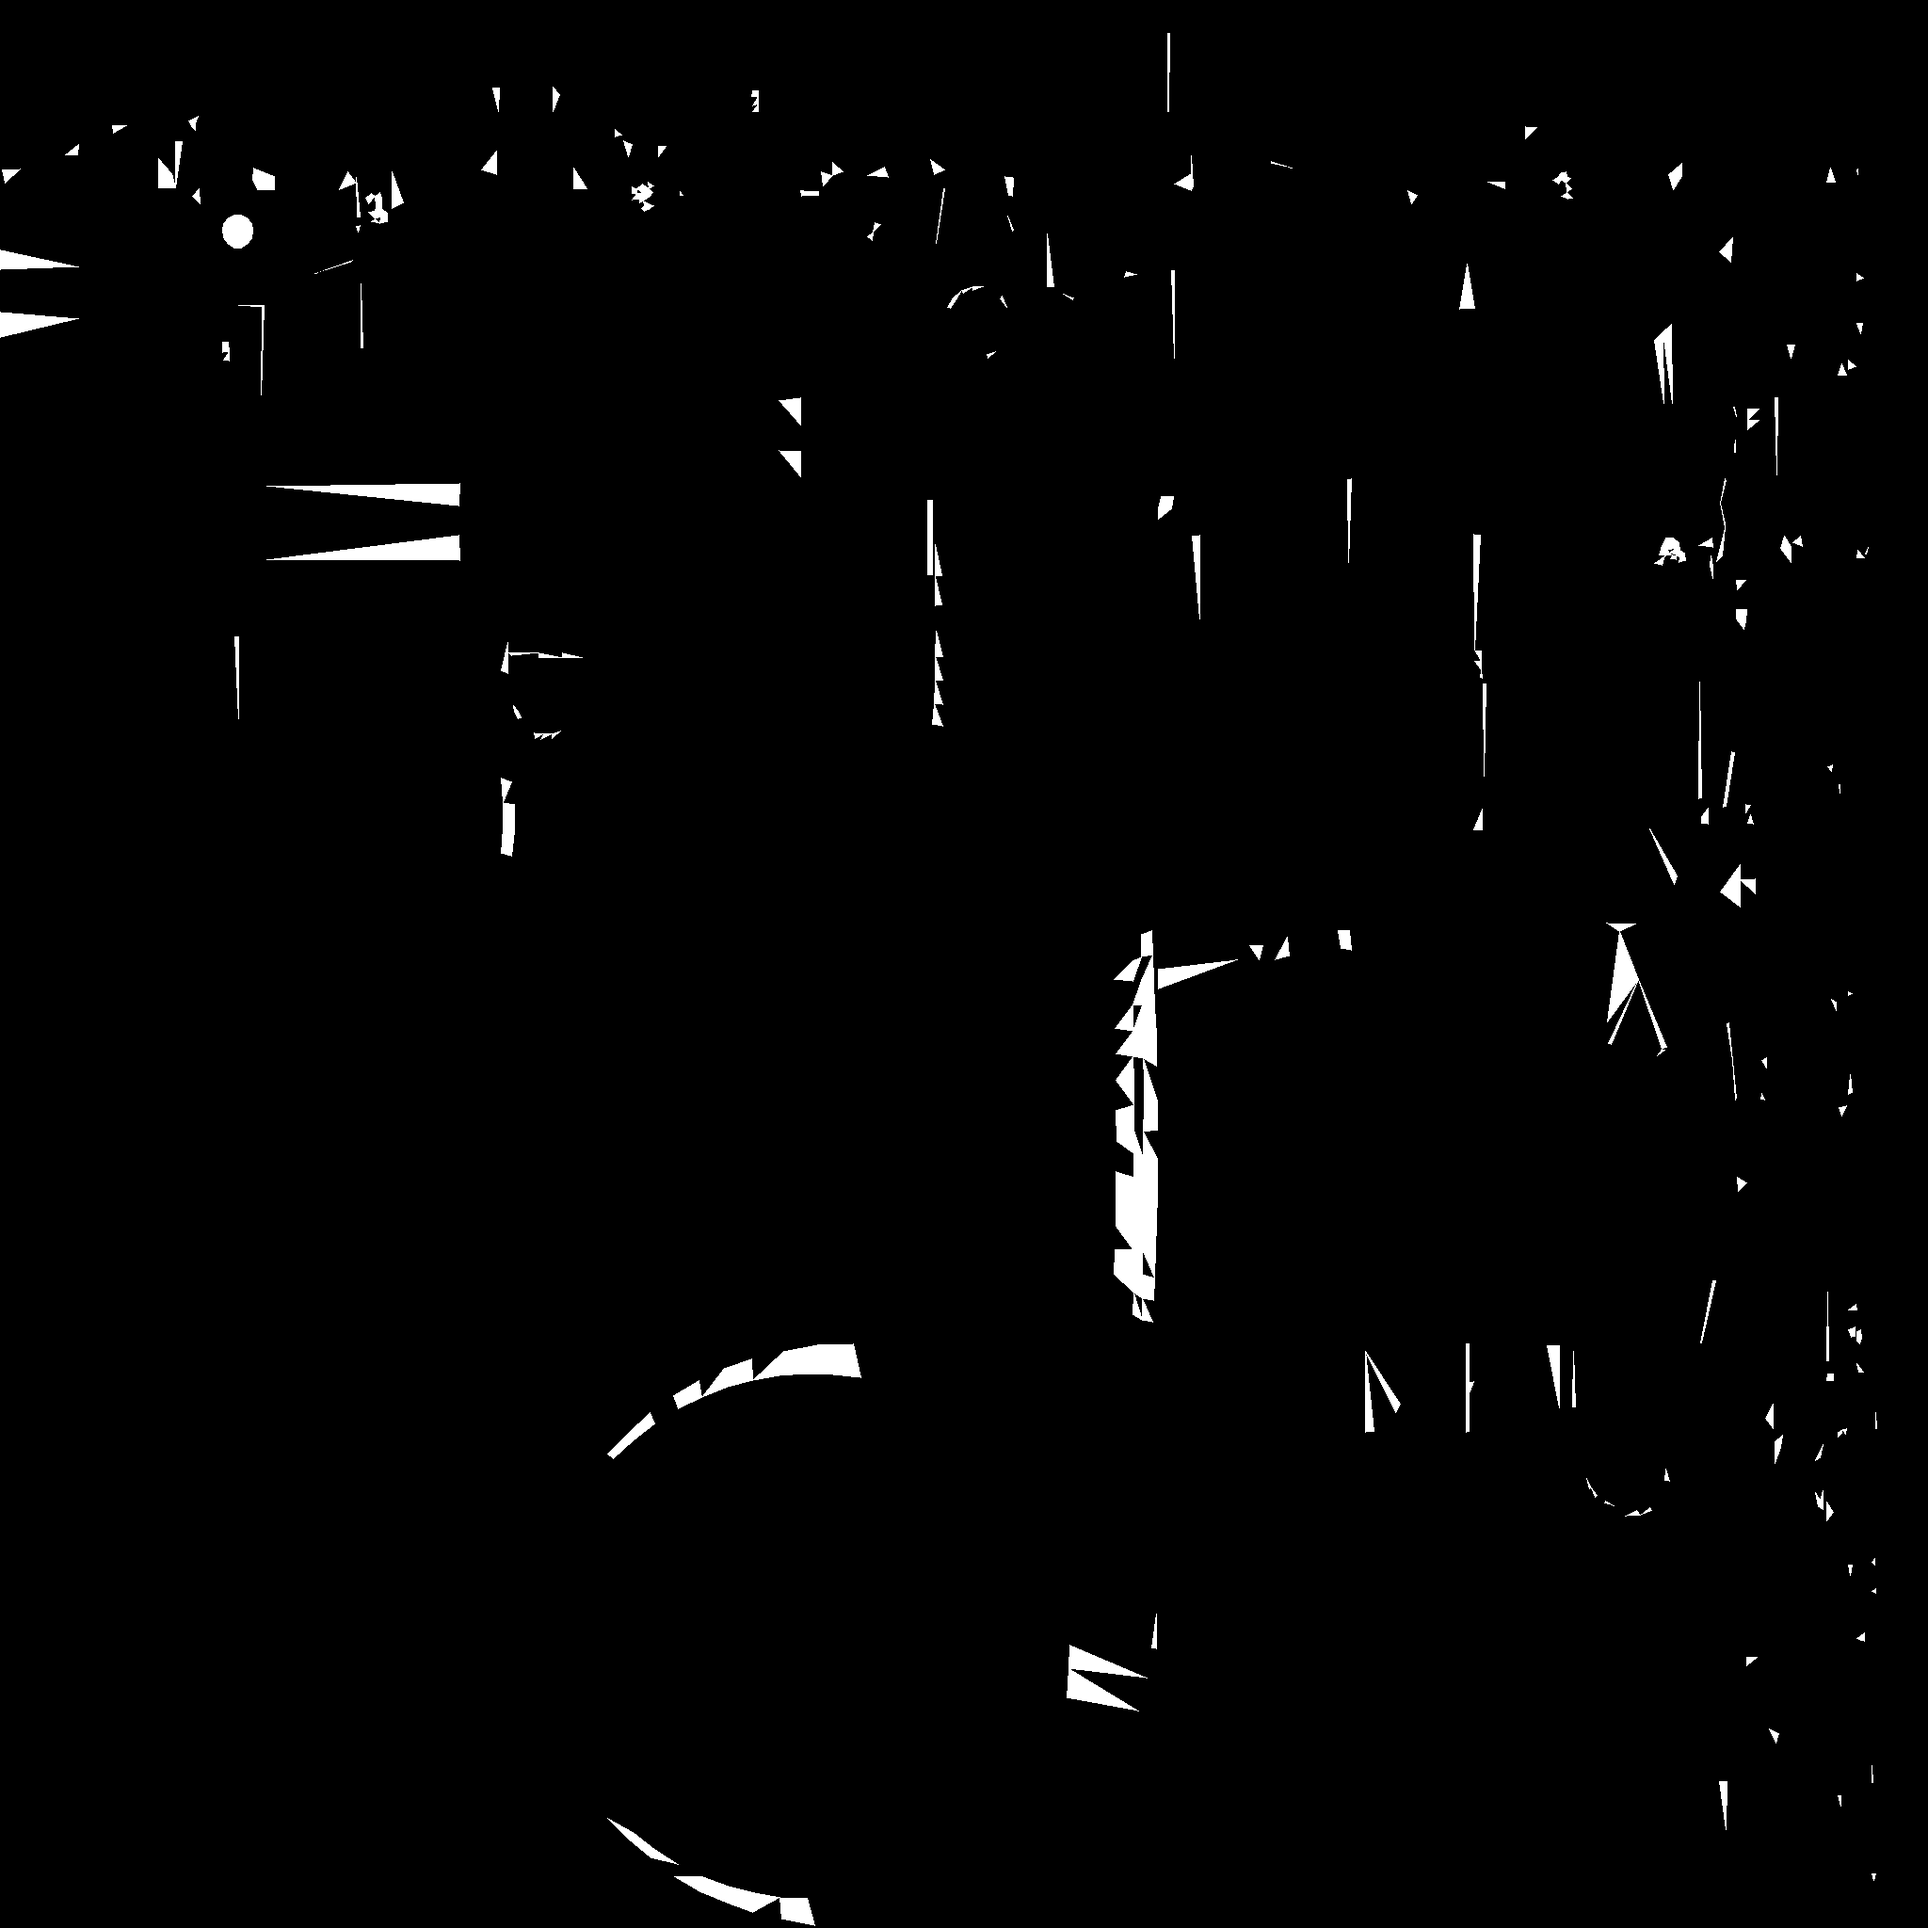
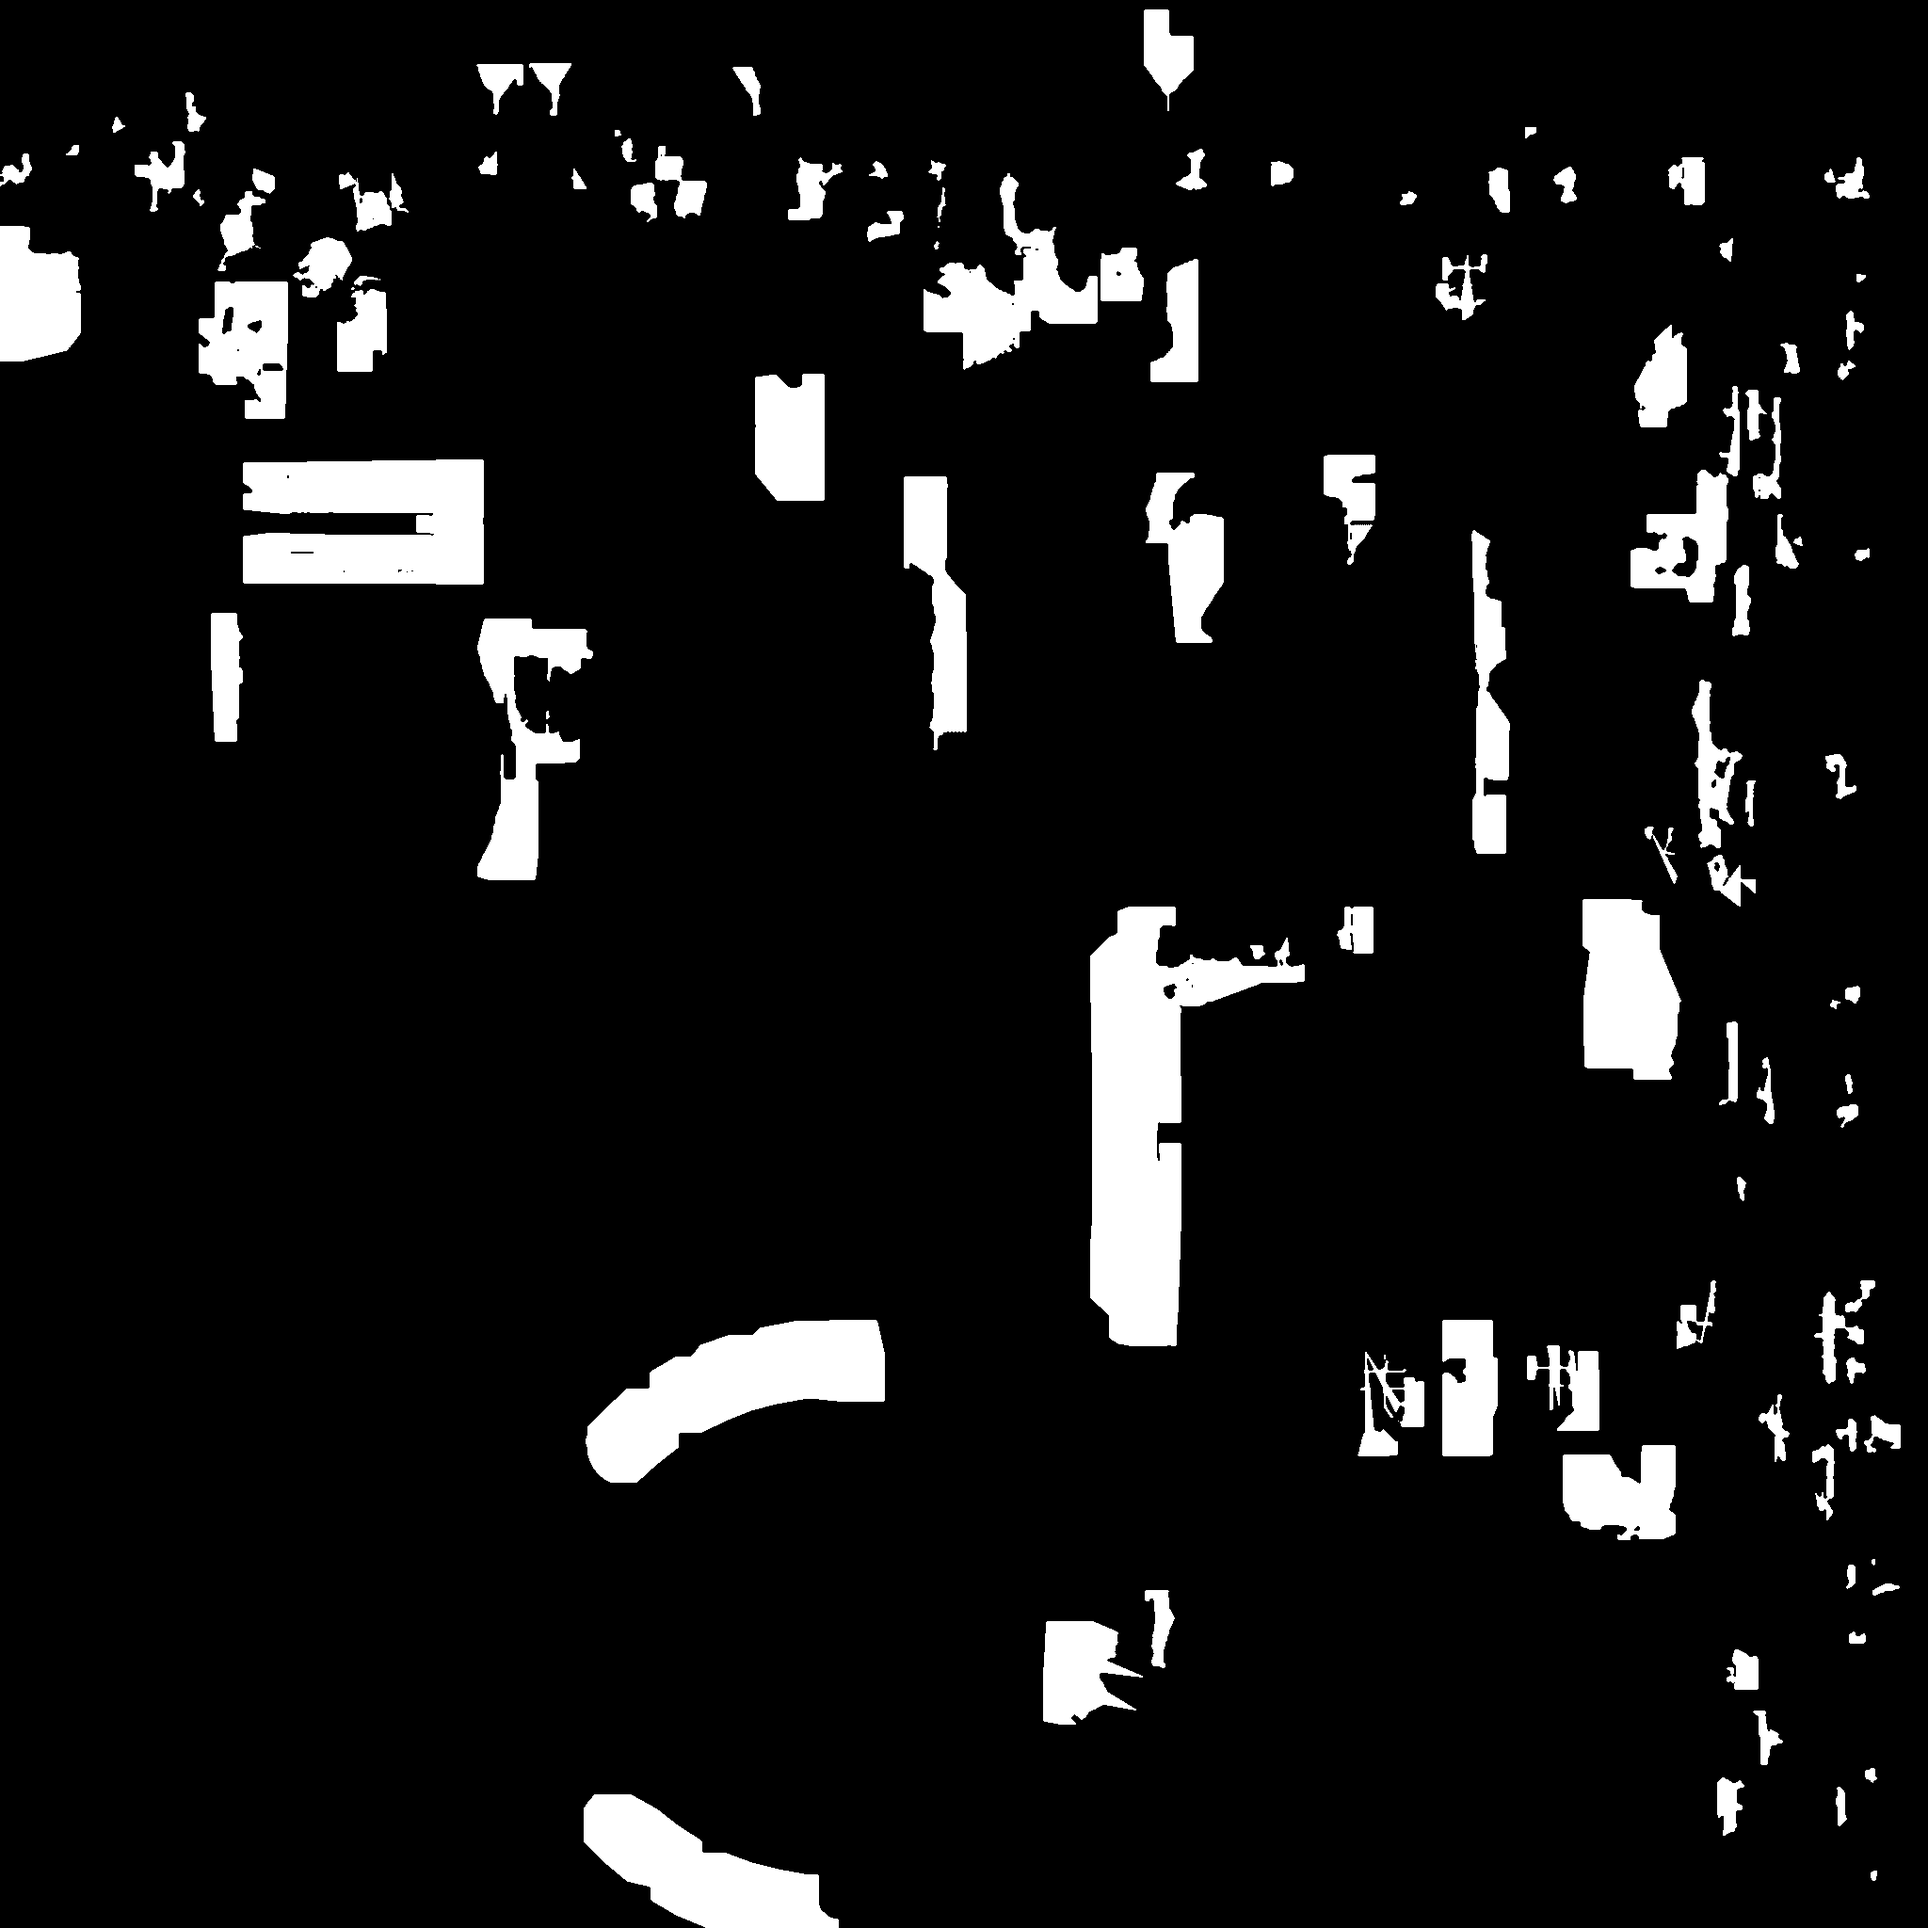
Oathbound: re-roll V-26 Court of Oaths as a solid hall (was a flat disc), widen V-19 team mask (1.35% -> 8.14%); 3.0% floor test for V-19/B-23

diff --git a/tools/gc_artbake/tests/meshy_masks.rs b/tools/gc_artbake/tests/meshy_masks.rs
@@ -89,12 +89,16 @@ fn the_core_configs_use_exactly_the_committed_masks() {
 fn every_mask_marks_a_visible_team_region() {
     // The regression this guards: V-13 shipped with a 0.00% mask (no team colour at all) and four more
     // were under 0.5% (speckle). Units and heroes need >= 1.5% of the map; buildings >= 0.75%.
-    // Documented weak masks (retexture or hand-paint is a follow-up): V-19 hearth hut (red door banner
-    // only) and B-23 pustule (a few orange veins) -- they pass the floor but read thin on the model.
+    // V-19 hearth hut and B-23 pustule had thin masks (1.35% / 1.94%: a door banner, a few veins). They were
+    // widened by hand over the matching hue family (docs/39), so they now carry a higher floor (3.0%) and a
+    // too-thin mask fails.
     const UNITS: [&str; 7] = ["V-01", "V-03", "V-13", "B-02", "B-03", "B-04", "B-13"];
+    const THIN_FIXED: [&str; 2] = ["V-19", "B-23"];
     for (name, _, _, px) in masks() {
         let pct = px.iter().filter(|v| **v == 255).count() as f32 * 100.0 / px.len() as f32;
-        let floor = if UNITS.contains(&name.as_str()) {
+        let floor = if THIN_FIXED.contains(&name.as_str()) {
+            3.0
+        } else if UNITS.contains(&name.as_str()) {
             1.5
         } else {
             0.75
